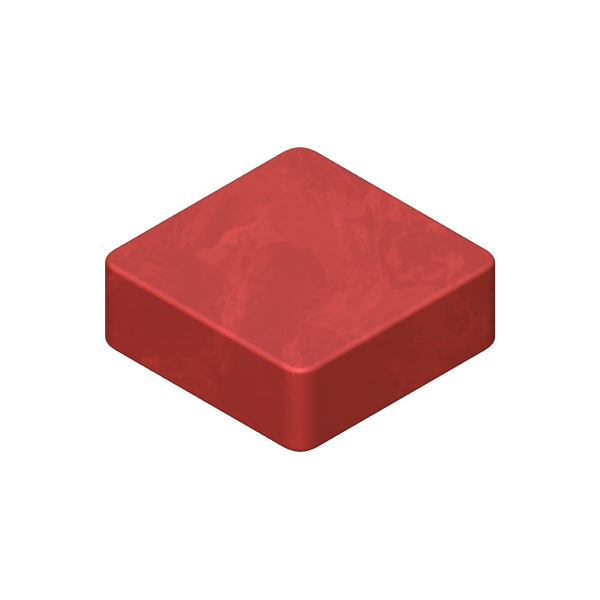
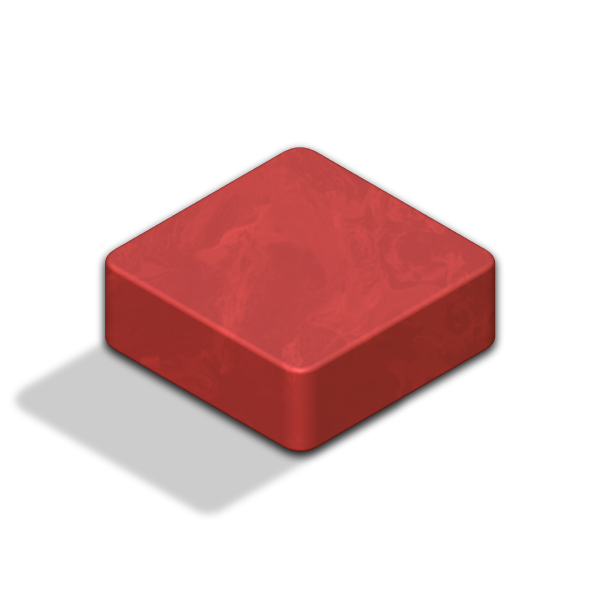
add tile shadows

diff --git a/src/components/Tile.jsx b/src/components/Tile.jsx
@@ -1,25 +1,33 @@
-import React, { useContext } from "react";
+import React, { useContext, useEffect, useState } from "react";
 import BoardContext from "../context/BoardContext";
+import tileWhite from "../assets/images/tile-white.png";
+import tileWhiteHover from "../assets/images/tile-white-hover.png";
+import tileBlackHover from "../assets/images/tile-black-hover.png";
+import tileBlack from "../assets/images/tile-black.png";
+import tileRed from "../assets/images/tile-red.png";
+import tileRedHover from "../assets/images/tile-red-hover.png";
 
 const Tile = ({ tileSize, yPos, xPos, color, highlighted }) => {
   const { board } = useContext(BoardContext);
+  const [imageSrc, setImageSrc] = useState("");
   let leftOffset;
 
-  const isEmptyTile = board[yPos][xPos].includes("-");
+  useEffect(() => {
+    if (color === "red") setImageSrc(highlighted ? tileRedHover : tileRed);
+    else if (color === "white")
+      setImageSrc(highlighted ? tileWhiteHover : tileWhite);
+    else if (color === "black")
+      setImageSrc(highlighted ? tileBlackHover : tileBlack);
+  }, [highlighted, color]);
 
   leftOffset = (board[0].length - board.length) * (tileSize / 6);
 
   return (
     <img
-      src={color}
+      src={imageSrc}
       width={`${tileSize}px`}
       height={`${tileSize}px`}
       style={{
-        transform: highlighted
-          ? "translateY(-3px)"
-          : isEmptyTile
-          ? "translateY(-3px)"
-          : "",
         position: "absolute",
         top: `${xPos * 0.21 * tileSize + yPos * 0.21 * tileSize}px`,
         left: `${

diff --git a/src/components/Tiles/Tiles.jsx b/src/components/Tiles/Tiles.jsx
@@ -3,9 +3,6 @@ import { useContext } from "react";
 import BoardContext from "../../context/BoardContext";
 import useTileSize from "../../hooks/useTileSize";
 import Tile from "../Tile";
-import tileWhite from "../../assets/images/tile-white.png";
-import tileBlack from "../../assets/images/tile-black.png";
-import tileRed from "../../assets/images/tile-red.png";
 
 const Tiles = ({ highlightedPieceId }) => {
   const { board } = useContext(BoardContext);
@@ -15,15 +12,15 @@ const Tiles = ({ highlightedPieceId }) => {
 
   // Used for alternating tile colors when rendering out the tiles.
   const getColor = (tile = "") => {
-    color === tileBlack ? (color = tileWhite) : (color = tileBlack);
-    if (tile.includes("G")) return tileRed;
+    color === "black" ? (color = "white") : (color = "black");
+    if (tile.includes("G")) color = "red";
     return color;
   };
 
   // Add tiles to be rendered
   board.forEach((row, rowIndex) => {
     // Alternate starting color for each row
-    rowIndex % 2 === 0 ? (color = tileWhite) : (color = tileBlack);
+    rowIndex % 2 === 0 ? (color = "white") : (color = "black");
 
     row.forEach((tile, index) => {
       if (!tile) {
